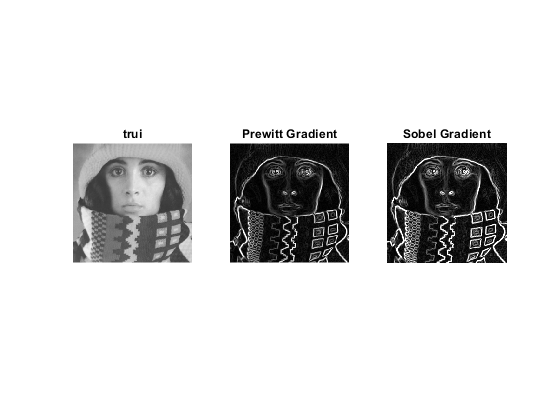
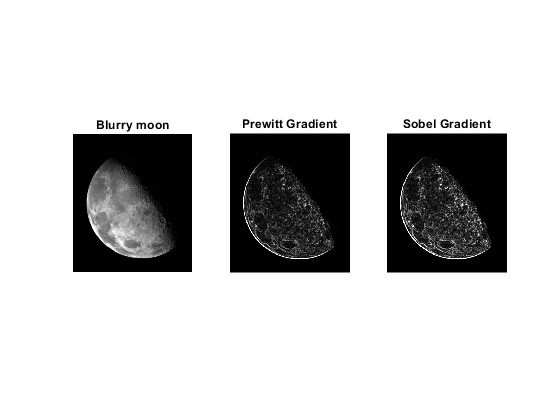
The moon is blurry

Changed region(s): [[0.1214, 0.2786, 0.3643, 0.65], [0.3946, 0.2786, 0.6375, 0.65], [0.6679, 0.2786, 0.9107, 0.65]]

diff --git a/Image Processing/Assignment 2/script2_1.m b/Image Processing/Assignment 2/script2_1.m
@@ -3,18 +3,17 @@ close all;
 clear all;
 
 %Load input image
-trui = imread('../images/trui.tif');
+moon = imread('../images/blurrymoon.tif');
 
 %Show image and its gradient
 figure;
 colormap(gray(256));
 subplot(1,3,1);
-imshow(trui);
-title('trui');
+imshow(moon);
+title('Blurry moon');
 subplot(1,3,2);
-imshow(IPgradient(trui, 1));
+imshow(IPgradient(moon, 1));
 title('Prewitt Gradient');
 subplot(1,3,3);
-imshow(IPgradient(trui, 2));
-disp(IPgradient(trui, 2))
+imshow(IPgradient(moon, 2));
 title('Sobel Gradient');
